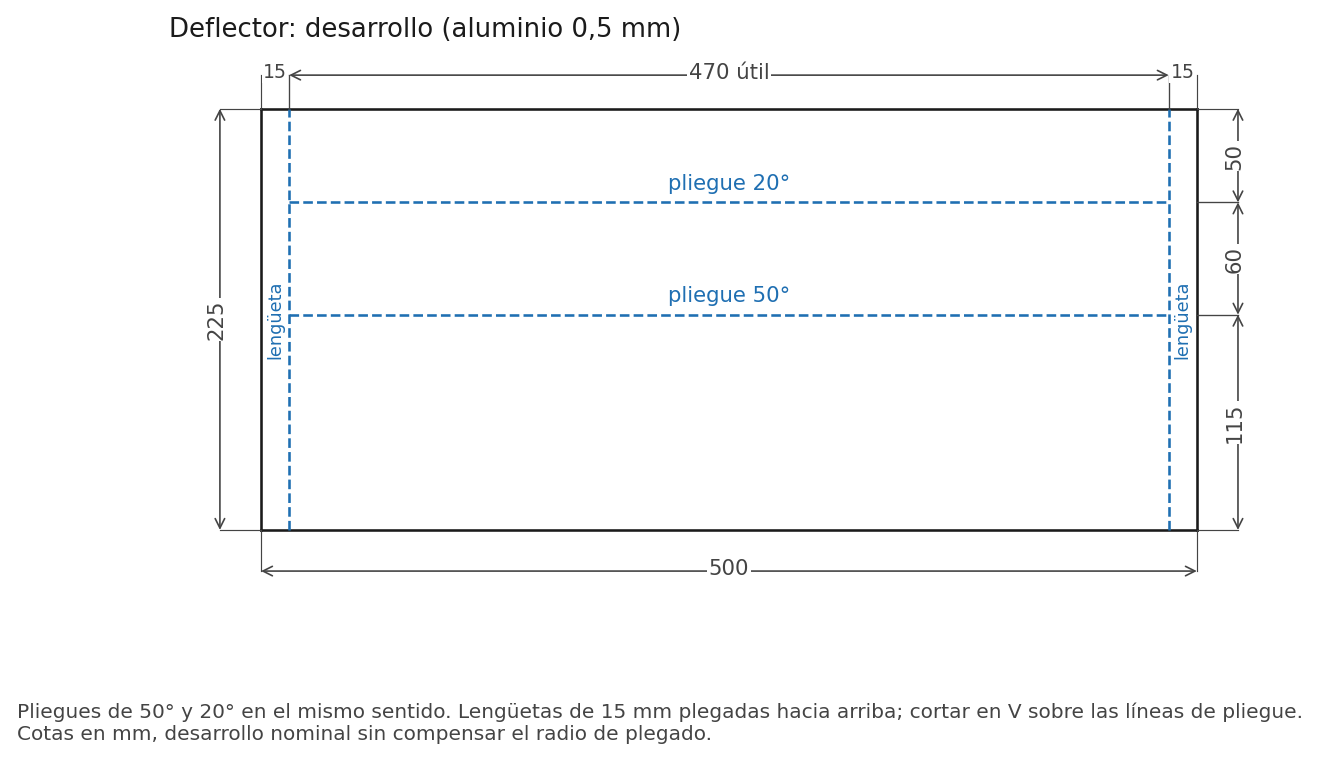
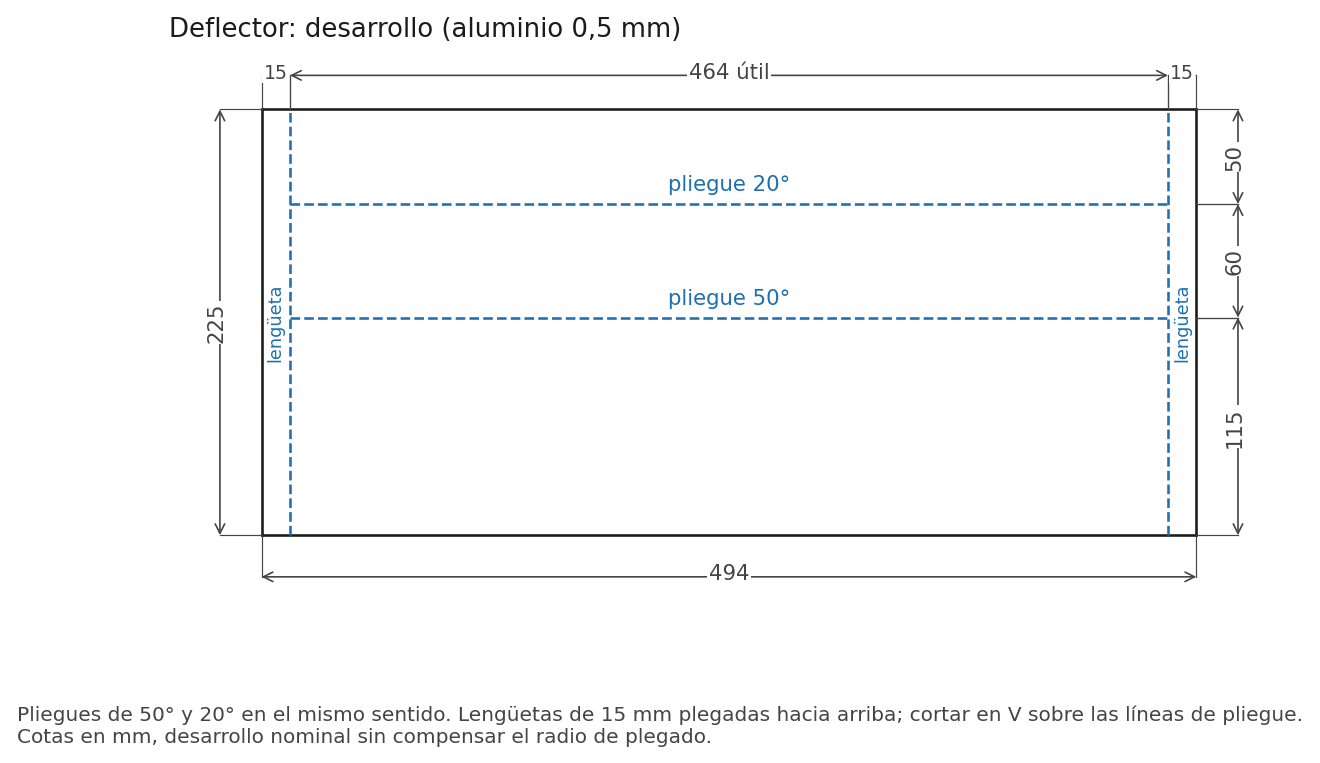
Deflector de 494 × 225 para la cámara de 464: DXF y desarrollo acotado

diff --git a/scripts/render_desarrollos.py b/scripts/render_desarrollos.py
@@ -83,12 +83,12 @@ def finish(fig, ax, name, title, notes):
 
 
 def deflector():
-    width, tab, segments = 500.0, 15.0, (115.0, 60.0, 50.0)
+    width, tab, segments = 494.0, 15.0, (115.0, 60.0, 50.0)  # cámara de 464 + 2 lengüetas
     length = sum(segments)
     fig, ax = plt.subplots(figsize=(8.5, 5.2))
     draw(ax, CAD / 'Deflector_Aire.dxf')
-    dim(ax, (0, 0), (width, 0), -22, '500')
-    dim(ax, (tab, length), (width - tab, length), 18, '470 útil')
+    dim(ax, (0, 0), (width, 0), -22, '%g' % width)
+    dim(ax, (tab, length), (width - tab, length), 18, '%g útil' % (width - 2 * tab))
     dim(ax, (0, length), (tab, length), 18, '15', fs=8)
     dim(ax, (width - tab, length), (width, length), 18, '15', fs=8)
     y = 0.0
